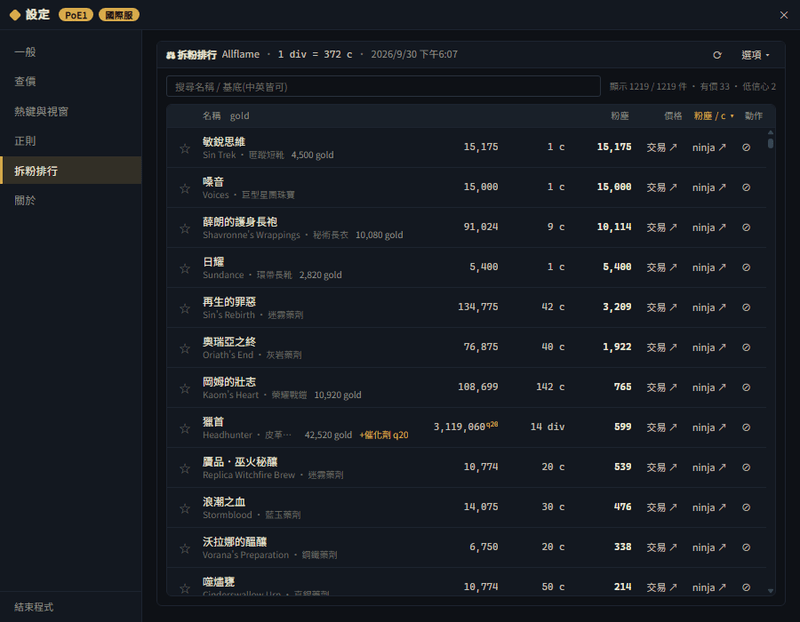
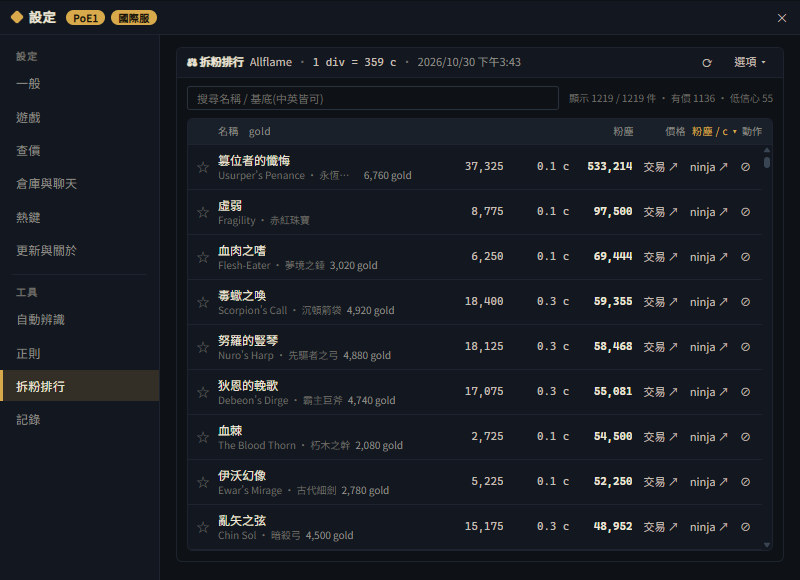
README 補上 9 張截圖並修正審查發現的說明錯誤
- 截圖:設定 › 遊戲 / 熱鍵 / 正則 / 拆粉排行與查價面板、掛單條件選單由隔離設定資料夾的
  瀏覽器預覽截取(不顯示賣家);懸浮選單與倉庫價格取自使用者既有的遊戲內截圖
- 自動切換改寫成「依開著的遊戲視窗」(兩款都開著不切),12 秒偵測只發生在開另一款遊戲時
- 台服不顯示倉庫價格(原寫只顯示物品名稱);OCR 區域只決定去哪找子頁按鈕,不能校正格子
- 熱鍵總表:書籤與倉庫搜尋在各自頁面設定;補褻瀆框選預設未設定
- 掛單條件選單:PoE2 選項是 Instant / 在線 / 離線 & 在線,改用介面上的「離線與在線」
- 懸停看物品的繁中翻譯只在國際服 + 介面繁中;補魔法 / 稀有裝備預設只查同底材

diff --git a/README.en.md b/README.en.md
@@ -50,11 +50,11 @@ A price checker for Path of Exile 1 and 2: hover an item in game, press a hotkey
 
 **Price checking**
 
-- **PoE1 and PoE2 in one app**: switches automatically based on which game window is in front.
+- **PoE1 and PoE2 in one app**: switches automatically based on which game window is open.
 - **International and Taiwan realms**: both trade sites are supported; on the international realm the language (Chinese or English) is detected from the copied text, so switching the game language just works.
 - **In-game overlay price check**: the panel appears over the game next to your cursor; a standalone window mode is also available.
 - **Price panel**: mods and pseudo stats sit on two cards with switches and range pills; mods absorbed into totals are listed on a separate "Raw mods" card; each mod can be given a mechanism (Any / Regular / Fractured / Crafted, plus Desecrated / Augment in PoE2).
-- **Listings**: switch between grid and list views; hover a listing to see the whole item (mods shown in Traditional Chinese); choices in the listing card's "Online" menu (offline, merchant only, listed time, currency) are remembered.
+- **Listings**: switch between grid and list views; hover a listing to see the whole item (with the Chinese interface on the international realm, mods are shown in Traditional Chinese); choices in the listing card's "Online" menu (offline, merchant only, listed time, currency) are remembered.
 - **Currency price area**: when checking currency, the top of the panel shows the poe.ninja exchange rate, 7-day trend and hourly volume, and totals up your stack.
 - **Related items**: checking boss fragments and similar items lists the rest of the set and the uniques / divination cards they lead to, with prices (international realm).
 - **Unidentified uniques**: the possible uniques are listed for you to pick before searching.
@@ -69,7 +69,7 @@ A price checker for Path of Exile 1 and 2: hover an item in game, press a hotkey
 
 **Screen recognition (OCR, runs locally)**
 
-- **PoE1 stash prices and stash value**: on the "General" and "Scarabs" sub-tabs of the fragment stash tab, every cell gets a poe.ninja price, and stack sizes are read to total the tab (international realm).
+- **PoE1 stash prices and stash value**: on the "General" and "Scarab" sub-tabs of the fragment stash tab, every cell gets a poe.ninja price, and stack sizes are read to total the tab (international realm).
 - **PoE2 Well of Souls reveal OCR**: open the reveal panel and it is recognized automatically; each option is labelled with the tier, mod pool and value range of its desecrated mods.
 - **PoE2 runeshape auto price check**: while the runeshape panel is open, each row gets a reference price; rows without a poe.ninja price are looked up on the trade site automatically.
 
@@ -110,11 +110,11 @@ A price checker for Path of Exile 1 and 2: hover an item in game, press a hotkey
 
 ### 2. Basic settings
 
-<!-- Image to add: docs/images/settings-game.png (Settings › Game tab) -->
+![Settings › Game](docs/images/settings-game.png)
 
 In **Settings › Game**:
 
-1. **Game**: PoE1 / PoE2. By default the app switches automatically based on the game window in front ("Auto-switch PoE1 / PoE2" on the same tab).
+1. **Game**: PoE1 / PoE2. By default the app switches automatically based on which game window is open ("Auto-switch PoE1 / PoE2" on the same tab): it switches when the current game is not open but the other one is, and stays put when both are open.
 2. **Realm**: international (`pathofexile.com`) or Taiwan (`pathofexile.tw`). The Taiwan realm currently supports the Traditional Chinese client only.
 3. **Client language**: whether your **game** runs in Traditional Chinese or English. On **International**, price checks detect the language from the copied text automatically (switching the game to the other language just works, with the same results), so this setting is only the default; **Taiwan** always uses this setting (Taiwan supports Traditional Chinese only, and the wrong choice makes parsing fail). The OCR recognition language (stash / desecration / runeshape) also follows it by default.
 4. **League**: the league to price check in (you can also switch it from the price panel's title bar and the floating menu). If the list does not load, click "Open check window" under "Trade site check" on the same tab and complete the Cloudflare check once in the window that opens.
@@ -123,7 +123,7 @@ The app's own display language (繁體中文 / English) is "Interface language" 
 
 ### 3. Price checking
 
-<!-- Image to add: docs/images/settings-hotkeys.png (Settings › Hotkeys table; replaces the old image) -->
+![Settings › Hotkeys](docs/images/settings-hotkeys.png)
 
 Default hotkeys (all changeable in **Settings › Hotkeys**: click a field and press the new combination; `Esc` / `Backspace` clears it):
 
@@ -134,14 +134,14 @@ Default hotkeys (all changeable in **Settings › Hotkeys**: click a field and p
 | Settings menu | `Shift + Space` | With a price panel open, moves focus between the game and the overlay; with no price panel, shows / hides the [floating menu](#floating-menu). |
 | Desecration: pause / resume | `Ctrl + Shift + R` | Pauses and resumes PoE2 Well of Souls auto-recognition. |
 
-The other hotkeys (runeshape, stash prices, regex quick panel, individual bookmarks, stash search) are unset by default; assign them on the same tab when you need them. Unset hotkeys are shown in grey; red means a conflict or a key that could not be registered.
+The desecration select-area, runeshape, stash prices and regex quick panel hotkeys are unset by default; assign them on the same tab when you need them. Hotkeys for individual bookmarks and stash search are set on the Regex and Stash & chat tabs; this tab only lists them and jumps there when clicked. Unset hotkeys are shown in grey; red means a conflict or a key that could not be registered.
 
 Steps:
 
 1. With the game window in front, hover an item and press the price-check hotkey. The app sends the copy keys for you to read the item text:
    - **PoE1**: sends `Ctrl + C`.
    - **PoE2**: sends `Ctrl + Alt + C` (advanced copy), which is needed to get the desecrated mod tiers from the game. The game's default `Alt` is assumed as the "show advanced description" key; a remapped key is not supported yet.
-2. The panel lists the item's mod filters: **tick** the mods to include in the search and adjust value ranges (the default tolerance is in Settings › Price check).
+2. The panel lists the item's mod filters: **tick** the mods to include in the search and adjust value ranges (the default tolerance is in Settings › Price check). Magic / rare weapons, armour, jewellery and quivers search for the same base type by default; click the item name to widen it to the whole category.
 3. Uniques, currency and similar items are searched immediately; for other items, adjust the filters and click **Search**.
 4. To see the full results on the web, click **Trade** to open the same search in your system browser.
 
@@ -149,7 +149,7 @@ Steps:
 
 ### 4. Reading the price panel
 
-<!-- Image to add: docs/images/price-panel.png (price panel: mod cards + listings) -->
+![Price panel](docs/images/price-panel.png)
 
 - **Mod / pseudo cards**: a switch decides whether each mod is part of the search; the range pill sets the minimum and maximum.
 - **Raw mods card**: mods absorbed into pseudo stats or armour / evasion totals, and rune mods, are listed here, collapsed and unticked by default; expand and tick one when you want to search for it on its own.
@@ -165,15 +165,15 @@ Steps:
 
 **The listing card's "Online" menu**
 
-<!-- Image to add: docs/images/online-filter.png (the listing card's "Online" menu, opened) -->
+![The listing card's online menu](docs/images/online-filter.png)
 
-Click the button in the listing card's title bar that shows the current listing condition (for example "Online") to open the menu, where you can change:
+Hover the button in the listing card's title bar that shows the current listing condition (for example "Online" in PoE1, "Instant" in PoE2) to open the menu, where you can change:
 
-- **Offline & Online** and **Merchant Only** (PoE2 merges them into one listing-type choice, remembered separately for normal and bulk searches)
+- **Listing condition**: "Offline & Online" and "Merchant Only" in PoE1; in PoE2 a single listing type (Instant or Online / Instant / Online / Offline & Online), remembered separately for normal and bulk searches
 - **Listed time** (Listed: Any Time up to 2 Months Ago)
 - **Currency** (Any Currency / Chaos Orb / Divine Orb / Both Orbs; PoE2 also has Exalted Orbs)
 
-These choices are **remembered automatically**: the next item and the next app launch use your last choice (in PoE1 the currency is also synced to "Settings › Price check › Default price currency"). The league is not remembered; it always follows the title bar. If you pick "include offline" or a short listed time, it stays that way, so remember to change it back when you no longer need it.
+These choices are **remembered automatically**: the next item and the next app launch use your last choice (in PoE1 the currency is also synced to "Settings › Price check › Default price currency"). The league is not remembered; it always follows the title bar. If you pick "Offline & Online" or a short listed time, it stays that way, so remember to change it back when you no longer need it.
 
 More options in **Settings › Price check**: stat value tolerance, default price currency (PoE1 only), API latency compensation, currency volume per hour (international realm), related items size, show item on hover, show seller, account name (marks your own listings; optional), and restore clipboard after check.
 
@@ -181,7 +181,7 @@ More options in **Settings › Price check**: stat value tolerance, default pric
 
 ### Floating menu
 
-<!-- Image to add: docs/images/float-menu.png (the floating menu opened with Shift + Space) -->
+![Floating menu](docs/images/float-menu.png)
 
 In overlay mode, with no price panel open in game, press **`Shift + Space`** and the floating menu appears:
 
@@ -198,16 +198,16 @@ Close it with ✕, a click outside, `Esc` or `Shift + Space` again; it also clos
 
 ### Stash prices and stash value (PoE1)
 
-<!-- Image to add: docs/images/stash-prices.png (fragment tab price badges + tab value card) -->
+![Stash prices and tab value](docs/images/stash-prices.png)
 
-When the **fragment stash tab** is open on its "General" or "Scarabs" sub-tab, every cell gets a poe.ninja price (C = Chaos Orb, D = Divine Orb); hovering a cell enlarges just that one.
+When the **fragment stash tab** is open on its "General" or "Scarab" sub-tab, every cell gets a poe.ninja price (C = Chaos Orb, D = Divine Orb); hovering a cell enlarges just that one.
 
-**Requirements**: PoE1, overlay mode, international realm (poe.ninja has no Taiwan prices, so the Taiwan realm only shows item names). Settings are in **Settings › Auto recognition › Stash prices (PoE1 fragment tab)**; on by default.
+**Requirements**: PoE1, overlay mode, international realm (poe.ninja has no Taiwan prices, so stash prices are not shown there). Settings are in **Settings › Auto recognition › Stash prices (PoE1 fragment tab)**; on by default.
 
 - **Stash value**: stack sizes are read from each cell, badges show the subtotal, and a "Tab value" card shows the total. Cells whose count could not be read are marked "?" and cells without a price are marked "N/A"; neither counts toward the total. Counts come from screen recognition and can be wrong; the game is always right.
 - **Show prices**: "Detect automatically" (appears whenever the stash is open) or "On hotkey" (no screenshots at all until you press the "Stash prices: start / pause" hotkey; hides itself when the stash closes). Set the hotkey in Settings › Hotkeys.
 - **Show item names on badges**: lets you check that each cell was recognized as the right item; turn it off afterwards to keep only prices.
-- **OCR region**: cell positions follow a fixed layout; if they are off on non-16:9 or unusual resolutions, select the sub-tab button row on the game screen to calibrate, or "Reset to default".
+- **OCR region**: the app looks here for the row of sub-tab buttons ("General / Scarab …") to tell that the fragment tab is open and which sub-tab is showing; if badges do not appear (for example after moving the stash tab into a folder pushes the buttons down), select that button row on the game screen, or "Reset to default". Cell positions follow a fixed layout and are not affected by this.
 - Badge font, size and price-tier colours are under "Badge appearance" on the same tab.
 
 ### Well of Souls reveal OCR (PoE2)
@@ -271,7 +271,7 @@ One lookup at a time, at most one search plus one fetch per row, and the same fi
 
 ### Poe Regex search strings and bookmarks
 
-<!-- Image to add: docs/images/regex.png (Settings › Regex with the bookmarks card) -->
+![Settings › Regex](docs/images/regex.png)
 
 Found in **Settings › Regex**.
 
@@ -291,7 +291,7 @@ Found in **Settings › Regex**.
 
 **Regex bookmarks**:
 
-<!-- Image to add: docs/images/regex-bookmark-bar.png (bookmark bar next to Settings, or the quick panel) -->
+![Regex bookmarks and the bookmark bar](docs/images/regex-bookmarks.png)
 
 - Save a set of ticks you use often as a bookmark and load it later with one click; bookmarks are split into PoE1 / PoE2 tabs and can be grouped in folders and reordered by dragging.
 - **Paste into the game with one click**: a bookmark is copied and pasted into the game's search bar (`Ctrl + F` → paste → `Enter`); a stash or vendor window must be open. Use it from:
@@ -302,7 +302,7 @@ Found in **Settings › Regex**.
 
 ### Disenchant ranking (PoE1)
 
-<!-- Image to add: docs/images/dust-ranking.png (Settings › Disenchant ranking; replaces the old image) -->
+![Disenchant ranking](docs/images/dust-ranking.png)
 
 - When you price check a unique, the panel shows how much dust it disenchants into and, with a poe.ninja price, dust per chaos.
 - The **Disenchant ranking** is the "Disenchant ranking" tab of the Settings window (the ⚖ button in the price panel's title bar and the floating menu open it too). It lists every unique, sortable by dust / c, dust / total cost, dust / gold and dust / c / slot, and accounts for item level, quality, jewellery catalysts, gold fees and inherent influences.
@@ -334,7 +334,7 @@ All of these are in **Settings › Stash & chat**.
 - The overlay only works while the game window is in front. Check that "PoE1 / PoE2 game window title" in Settings › Game matches the game window title (defaults: `Path of Exile` / `Path of Exile 2`).
 - If another program already uses the hotkey, Settings › Hotkeys shows it in red; pick a different combination.
 - If you prefer not to use the overlay, untick "Overlay on the game" in Settings › Game to use a standalone window (the app restarts automatically).
-- If the game is started after the app, it can take up to about 12 seconds to be detected.
+- If you open the other game (one that needs an automatic switch), it can take up to about 12 seconds to switch; the game currently set is attached right away.
 </details>
 
 <details>
@@ -346,7 +346,7 @@ The trade site is protected by Cloudflare. In Settings › Game, click **"Open c
 </details>
 
 <details>
-<summary><b>Every price check includes offline listings, a listed time or a currency I don't want</b></summary>
+<summary><b>Every price check includes "Offline & Online", a listed time or a currency I don't want</b></summary>
 
 The listing card's "Online" menu remembers your last choice (see [Reading the price panel](#4-reading-the-price-panel)). Open the menu and change it back; the new choice is remembered from then on.
 </details>
@@ -359,14 +359,14 @@ The listing card's "Online" menu remembers your last choice (see [Reading the pr
 - Selecting an area around the panel is usually faster and more accurate; select again if the panel moves (resolution or UI scale changes).
 - Traditional Chinese and English game clients are supported; the OCR language pack is chosen by "Recognition language" in Settings › Auto recognition (follows the client language by default, or set Traditional Chinese / English manually to match what the game screen actually shows).
 - The runeshape "Uniques" tab lists only generic rewards (no `1x`-style prefix) and currently gets no badges (same for both languages).
-- If stash prices do not line up with the cells, select the OCR region in Settings › Auto recognition › Stash prices to calibrate. When reporting a stash recognition problem, click "Save stash capture" in Settings › Log to attach what the app actually saw.
+- If stash price badges do not appear, select the OCR region (the sub-tab button row) in Settings › Auto recognition › Stash prices, or reset it to default. When reporting a stash recognition problem, click "Save stash capture" in Settings › Log to attach what the app actually saw.
 </details>
 
 <details>
 <summary><b>What differs between the Taiwan and international realms?</b></summary>
 
 - The Taiwan realm queries `pathofexile.tw` and currently supports the Traditional Chinese client only.
-- poe.ninja has no Taiwan prices, so the Taiwan realm has no disenchant prices (dust amounts only), no currency price area, no related items, no exchange rates in the floating menu and no stash prices (item names only); runeshape badges have no reference price, and rows are looked up on the Taiwan trade site automatically instead (prices in the listed currency).
+- poe.ninja has no Taiwan prices, so the Taiwan realm has no disenchant prices (dust amounts only), no currency price area, no related items, no exchange rates in the floating menu and no stash prices; runeshape badges have no reference price, and rows are looked up on the Taiwan trade site automatically instead (prices in the listed currency).
 </details>
 
 <details>
